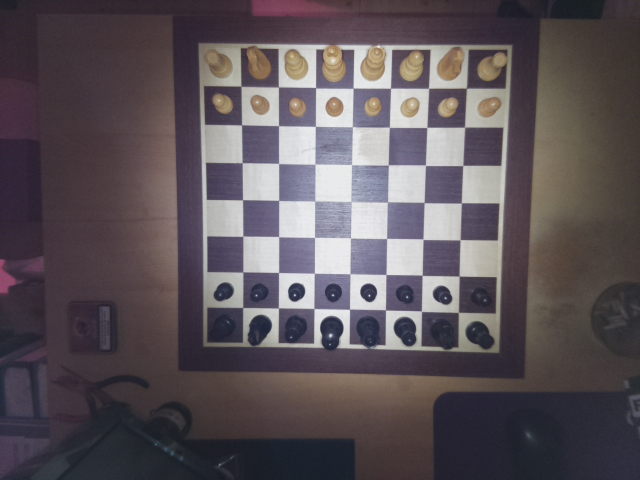
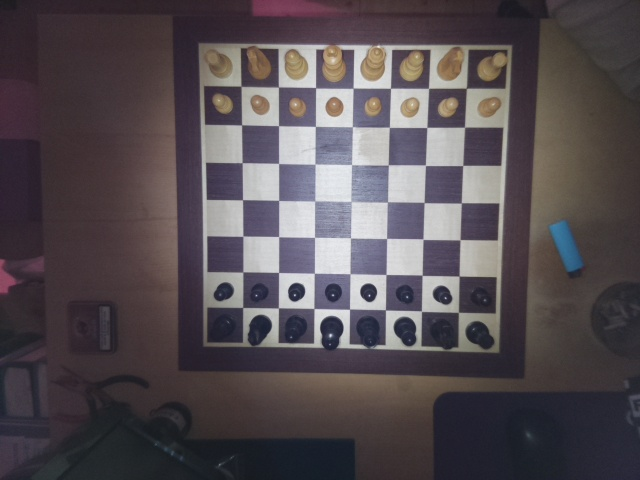
Passage en noir et blanc pour prévenir de l'inconsistance des couleurs

Changed region(s): [[0.8438, 0.4375, 0.9375, 0.5938], [0.8438, 0.0, 0.9688, 0.0625]]

diff --git a/vision/ChessCamera.py b/vision/ChessCamera.py
@@ -22,13 +22,9 @@ class ChessCamera(object):
 
 
     def get_frame(self):
-        #rawCapture = PiRGBArray(self.camera)
-        #self.camera.capture(rawCapture, format="bgr")
-        stream = io.BytesIO()
-        camera.capture(stream, format='jpeg')
-        data = np.fromstring(stream.getvalue(), dtype=np.uint8)
-        image = cv2.imdecode(data, 1)
-        return image
+        rawCapture = PiRGBArray(self.camera)
+        self.camera.capture(rawCapture, format="bgr")
+        return rawCapture.array
 
     def _chessboard_perspective_transform_path(self):
         return ('chessboard_perspective_transform.npy')
@@ -45,6 +41,8 @@ class ChessCamera(object):
             frame = self.get_frame()
         else:
             frame = cv2.imread(self.IMAGE_PATH)
+
+        frame = cv2.cvtColor(frame, cv2.COLOR_BGR2GRAY)
 
         board_size = (7,7)
         found, corners = cv2.findChessboardCorners(frame, board_size, flags=cv2.CALIB_CB_NORMALIZE_IMAGE|cv2.CALIB_CB_ADAPTIVE_THRESH)
@@ -103,6 +101,8 @@ class ChessCamera(object):
         else:
             frame = cv2.imread(self.IMAGE_PATH)
 
+        frame = cv2.cvtColor(frame, cv2.COLOR_BGR2GRAY)
+
         M = self.get_chessboard_perspective_transform()
         frame = cv2.warpPerspective(frame, M, (BOARD_SIZE,BOARD_SIZE))
 
@@ -151,8 +151,8 @@ class ChessCamera(object):
             board.append(line)
         return board
 
-    def canny(self, image):
-        img = cv2.cvtColor(image, cv2.COLOR_BGR2GRAY)
+    def canny(self, img):
+        #img = cv2.cvtColor(image, cv2.COLOR_BGR2GRAY)
         img = self.adjust_gamma(img, CANNY_GAMMA)
         img = cv2.GaussianBlur(img, (CANNY_BLUR,CANNY_BLUR), 0)
         if DEBUG : cv2.imwrite("output/gray.jpg", img)
@@ -192,6 +192,7 @@ class ChessCamera(object):
         mask_stack  = mask_stack.astype('float32') / 255.0          # Use float matrices,
         img         = img.astype('float32') / 255.0                 #  for easy blending
 
+        img = cv2.cvtColor(img, cv2.COLOR_GRAY2BGR)
         masked = (mask_stack * img) + ((1-mask_stack) * MASK_COLOR) # Blend
         masked = (masked * 255).astype('uint8')                     # Convert back to 8-bit
 

diff --git a/vision/constants.py b/vision/constants.py
@@ -21,4 +21,4 @@ MASK_DILATE = 9
 
 THRESHOLD_PRESENCE = 50
 THRESHOLD_COLOR = 200
-THRESHOLD_BINARY = 100
+THRESHOLD_BINARY = 70
